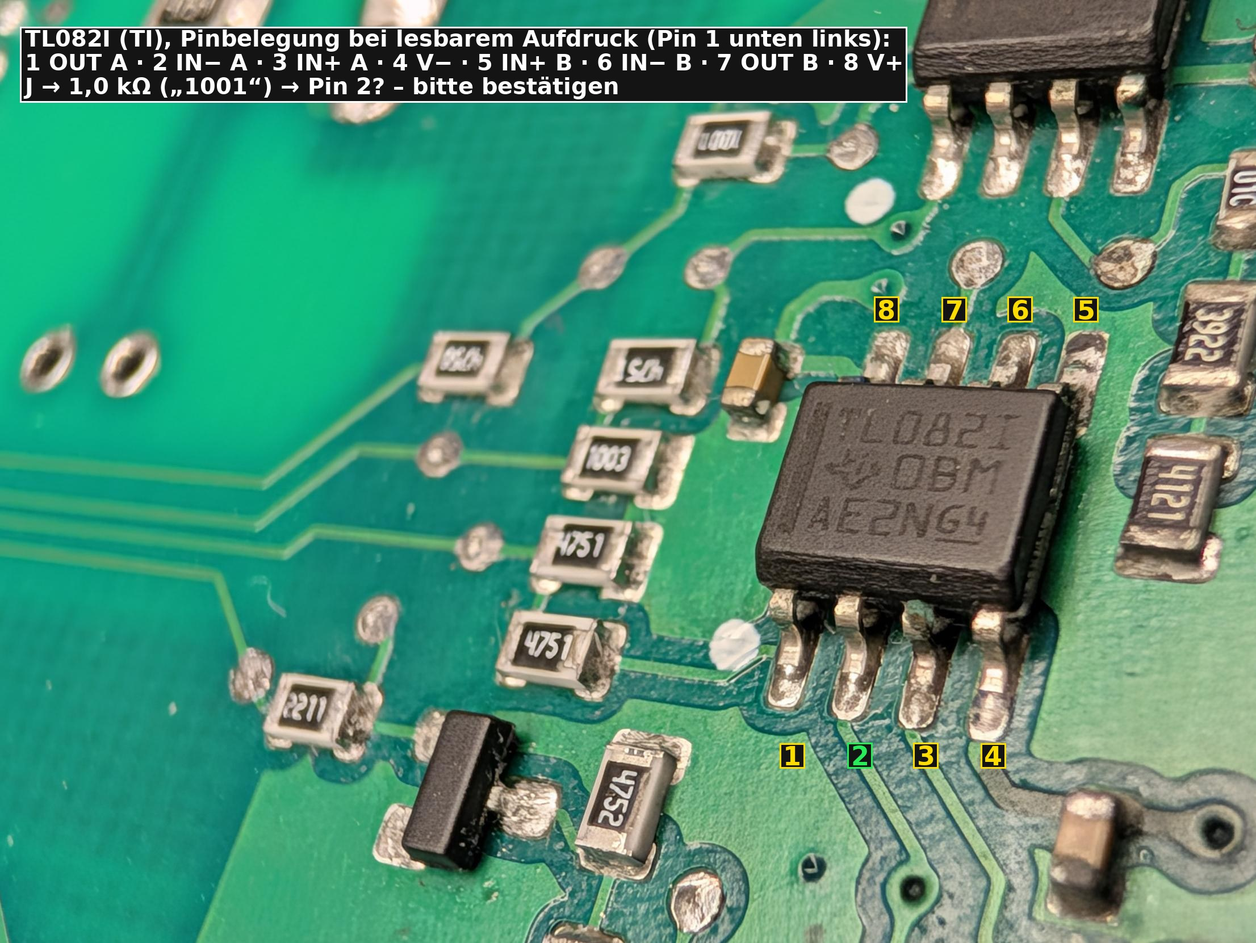
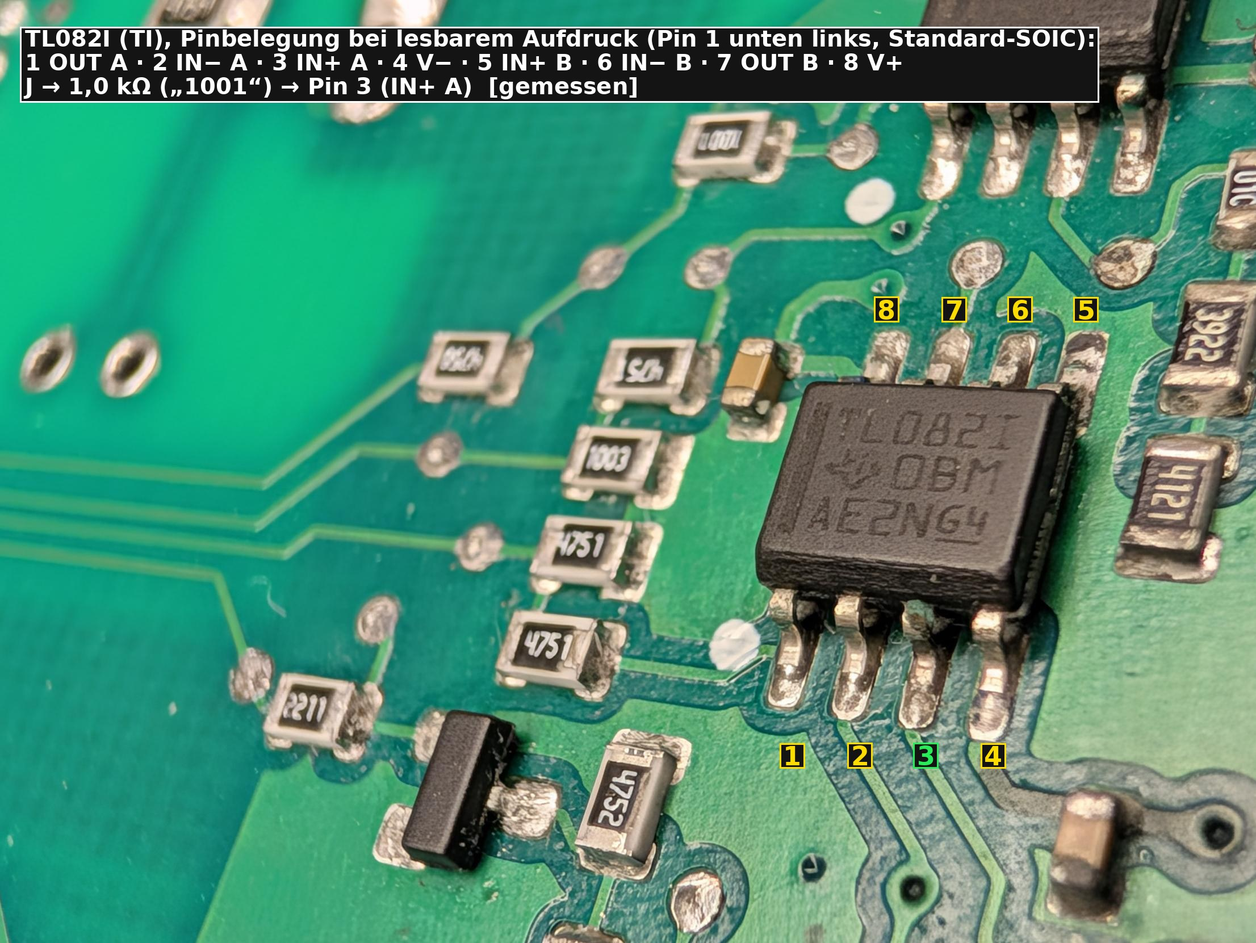
Korrektur: 1001 an TL082 Pin 3 (IN+ A)
Claude-Session: https://claude.ai/code/session_01PCWMsMLh1QUFQHXCMiZTdR

Changed region(s): [[0.6863, 0.0307, 0.8734, 0.1228], [0.2807, 0.0614, 0.4991, 0.1228], [0.6551, 0.7676, 0.7486, 0.829]]

diff --git a/docs/LAUF_2026-11-14.md b/docs/LAUF_2026-11-14.md
@@ -141,3 +141,5 @@ Nächste Messungen (geklemmt, gegen 0VA, Standby → Start): L4981 Pin 12 (SS), 
 - **21:26 [M]:** Linke Kappe „2212“ ↔ Elko-Minus **0 Ω** → **22,1 kΩ von J nach 0VA** (Fußwiderstand des Netzteilers). Rechte Kappe „1001“ → **2. Pin von unten auf der linken Seite des SO-8** (Pinnummer nach Aufdruck/Orientierung festzulegen). Damit: Netz L/N → 2 × 475 kΩ → D1/D2 → J → 22,1 kΩ → 0VA; J → 1,0 kΩ → Eingang SO-8 [M/I]. Unbelastetes Modell: 325 V × 22,1 k / (950 k + 22,1 k) ≈ 7,4 V Spitze; tatsächlicher Pegel abhängig von weiteren Lasten/Klemmung (J ↔ +5VA ≈ 9–10 kΩ am 08.11.) – nicht als Sollwert verwenden [I].
 - **21:27 SO-8 = TL082I (TI) [O]** (`photos/2026-11-15/tl082_aufdruck.jpg`, Pins `docs/img/tl082_pins.jpg`). Bei lesbarem Aufdruck Pin 1 unten links. „2. Pin von links unten“ entspräche **Pin 2 = IN− A** → J → 1,0 kΩ → invertierender Eingang Verstärker A [I, Zählweise zu bestätigen]. Es ist der TL082 direkt neben T3 und den Widerständen B20-R1…R4 (Leitungsbündel zum MCU).
 - Offen (stromlos): Pin 1 (OUT A) → welcher Widerstand/wohin; Pin 3 (IN+ A) → Referenz (Teiler?); Pin 8/Pin 4 ↔ +12VA/−12VA/0VA; Rückkopplung Pin 1 ↔ Pin 2.
+- **21:28 Korrektur Zuordnung [M]:** Der Nutzer hatte von der anderen Seite gezählt. „1001“ (rechte Kappe) geht an **Pin 3 = IN+ A** (Nummerierung `docs/img/tl082_pins.jpg`, Pin 1 unten links bei lesbarem Aufdruck – Standard-SOIC, Gehäusemarke nicht erkennbar; über Versorgungspins 4/8 elektrisch zu bestätigen). → **J → 1,0 kΩ → nichtinvertierender Eingang Verstärker A** [M/I].
+- Offen (stromlos): Pin 4/8 ↔ −12VA/+12VA/0VA (bestätigt zugleich die Pinzählung); Pin 2 (IN− A) → Referenz oder Rückkopplung (Pin 1 ↔ Pin 2); Pin 1 (OUT A) → Weg (optisch Richtung weißer Testpunkt/„4751“ → Bündel zum MCU).
